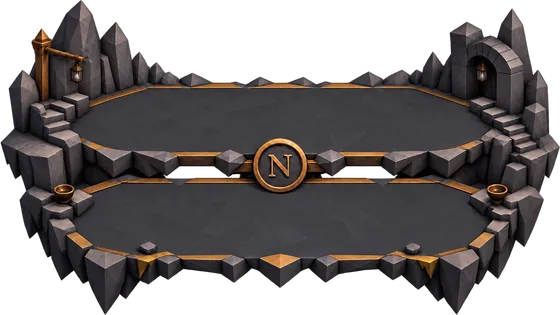
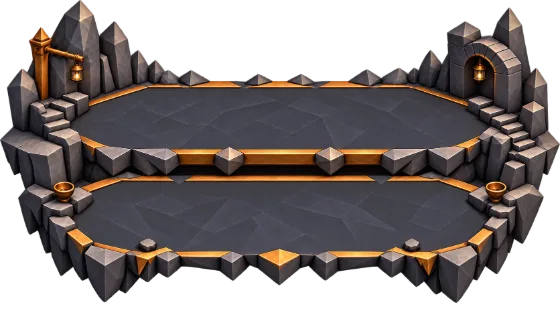
Plateaux : nouvelles images (allégées en WebP, miniatures refaites) ; deux nouvelles arènes, les Flammes et le Lagon

Changed region(s): [[0.0, 0.0, 1.0, 1.0], [0.4857, 0.8857, 0.5161, 0.9143], [0.0607, 0.8, 0.0911, 0.8286]]

diff --git a/src/styles/jeu-cartes.css b/src/styles/jeu-cartes.css
@@ -2194,6 +2194,8 @@ body.en-duel { overflow: hidden; padding: 0 !important; }
 /* Plateau par défaut (sans plateau choisi) : l'arène de pierre ; les saisons sont la même arène, décorée */
 .page-jeu.plateau-defaut    .tg-bord { background-image: url("/img/Plateaux%20de%20carte/plateau-defaut.webp"); }
 .page-jeu.plateau-cristaux  .tg-bord { background-image: url("/img/Plateaux%20de%20carte/plateau-cristaux.webp"); }
+.page-jeu.plateau-flamme    .tg-bord { background-image: url("/img/Plateaux%20de%20carte/plateau-flamme.webp"); }
+.page-jeu.plateau-plage     .tg-bord { background-image: url("/img/Plateaux%20de%20carte/plateau-plage.webp"); }
 
 /* Les troupes, sur les emplacements peints */
 .page-jeu .tg-bord .terrain {

diff --git a/src/pages/Duel.jsx b/src/pages/Duel.jsx
@@ -6,7 +6,7 @@
 //  au duel, puis à la revanche (lib/duel/useLigne.js).
 //
 //  Le plateau choisi par le joueur (acheté en boutique) devient une classe du <body> : plateau-hiver…
-//  Pour en essayer un : #/duel?saison=hiver (printemps, ete, automne, cristaux).
+//  Pour en essayer un : #/duel?saison=hiver (printemps, ete, automne, cristaux, flamme, plage).
 // =====================================================================
 import { useEffect, useMemo, useState } from 'react';
 import { useNavigate, useSearchParams } from 'react-router-dom';

diff --git a/src/lib/donneesDuel.js b/src/lib/donneesDuel.js
@@ -12,7 +12,7 @@ import { supabase } from './supabase.js';
 import { uniteDepuisCarte, objetDepuisNom } from '../moteur/index.js';
 
 // Les plateaux que le CSS sait afficher (classe plateau-… sur <body>)
-export const PLATEAUX = ['defaut', 'automne', 'ete', 'hiver', 'printemps', 'cristaux'];
+export const PLATEAUX = ['defaut', 'automne', 'ete', 'hiver', 'printemps', 'cristaux', 'flamme', 'plage'];
 
 // Seulement les vraies cartes illustrées (pas la carte d'exemple)
 const jouable = (c) => c?.image && c.description !== "Carte d'exemple";
